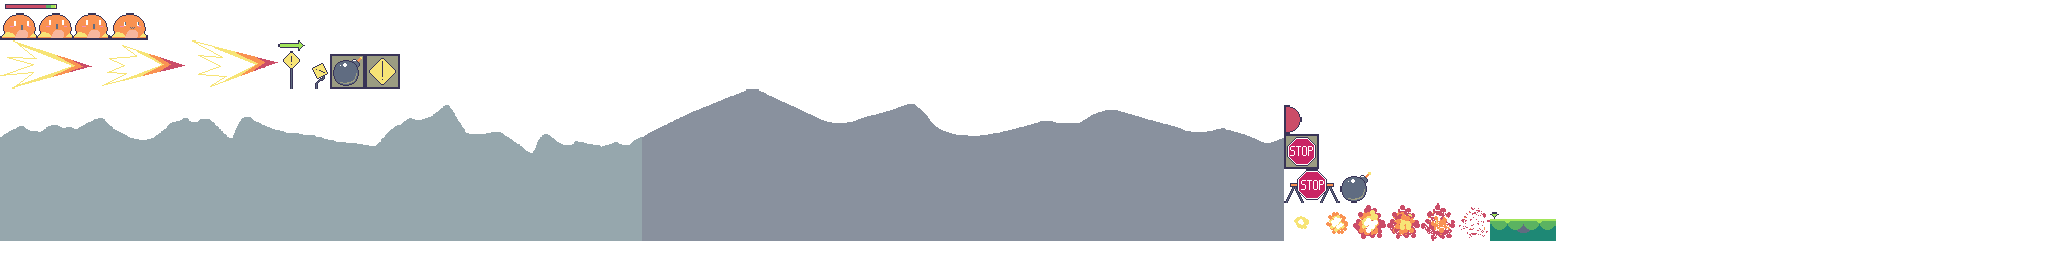
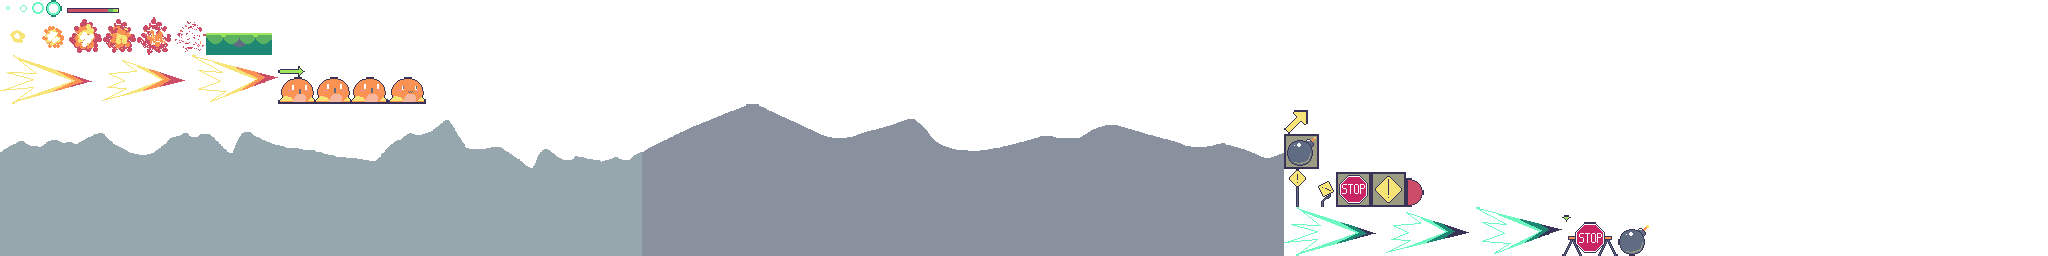
balancing and blue

Changed region(s): [[0.0, 0.3438, 0.8125, 1.0], [0.0, 0.0, 0.2188, 0.4062], [0.625, 0.4062, 0.6562, 0.5]]

diff --git a/core/src/main/java/com/distraction/oss325/screens/PlayScreen.java b/core/src/main/java/com/distraction/oss325/screens/PlayScreen.java
@@ -40,7 +40,8 @@ public class PlayScreen extends Screen {
     private final TextureRegion pixel;
 
     private final Player player;
-    private final TextureRegion[] explosionSprites;
+    private final TextureRegion[] explosion;
+    private final TextureRegion[] blueExplosion;
 
     private final FontEntity distanceFont;
     private final FontEntity speedFont;
@@ -60,12 +61,14 @@ public class PlayScreen extends Screen {
 
     private final List<Particle> particles;
 
-    private boolean booster = true;
+    private TextureRegion booster;
+    private int boosterCount = 3;
 
     public PlayScreen(Context context) {
         super(context);
         pixel = context.getPixel();
-        explosionSprites = context.getImage("explosion").split(34, 36)[0];
+        explosion = context.getImage("explosion").split(34, 36)[0];
+        blueExplosion = context.getImage("blueexplosion").split(15, 15)[0];
 
         player = new Player(context);
         interactables = new ArrayList<>();
@@ -109,14 +112,15 @@ public class PlayScreen extends Screen {
         );
         speedFont.setColor(Constants.BLACK);
 
+        booster = context.getImage("boost");
         boosterFont = new FontEntity(
             font,
-            "Booster Available! [SPACE]",
-            Constants.WIDTH / 2f,
-            8,
-            FontEntity.Alignment.CENTER
+            "[SPACE]",
+            Constants.WIDTH - 16,
+            Constants.HEIGHT - 50,
+            FontEntity.Alignment.RIGHT
         );
-        boosterFont.setColor(Constants.WHITE);
+        boosterFont.setColor(Constants.BLACK);
 
     }
 
@@ -160,7 +164,7 @@ public class PlayScreen extends Screen {
     /**
      * Get the next item in the list. Rules:
      * - Every INTERVAL is a new item.
-     * - Every 10 items is a STOP.
+     * - Every 13 items is a STOP.
      * - Every 3 items is a SLOW.
      * - Everything else is a BOMB.
      */
@@ -173,7 +177,7 @@ public class PlayScreen extends Screen {
         while (cx <= x) {
             List<Interactable> temp = new ArrayList<>();
             int index = cx / INTERVAL;
-            if (index % 10 == 0) {
+            if (index % 13 == 0) {
                 temp.add(new Stop(context));
             } else if (index % 3 == 0) {
                 temp.add(new SlowSign(context));
@@ -212,8 +216,8 @@ public class PlayScreen extends Screen {
 
         if (Gdx.input.isKeyJustPressed(Input.Keys.SPACE)) {
             if (state == State.GO && !player.stopped) {
-                if (booster) {
-                    booster = false;
+                if (boosterCount > 0) {
+                    boosterCount--;
                     state = State.RAD;
                 }
             } else if (state == State.RAD) {
@@ -245,7 +249,10 @@ public class PlayScreen extends Screen {
             player.update(dt);
         }
         int newBoosterInterval = getDistance() / BOOSTER_INTERVAL;
-        if (currentBoosterInterval != newBoosterInterval) booster = true;
+        if (currentBoosterInterval != newBoosterInterval) {
+            boosterCount++;
+            if (boosterCount > 3) boosterCount = 3;
+        }
 
         // update camera
         cam.position.x = player.x;
@@ -327,14 +334,29 @@ public class PlayScreen extends Screen {
         sb.setProjectionMatrix(cam.combined);
         sb.setColor(1, 1, 1, 1);
         player.render(sb);
-        if (state == State.GO && player.dx > 1500) particles.add(
-            new Particle(
-                explosionSprites,
-                2 / 60f,
-                MathUtils.random(-10, 10) + player.x,
-                MathUtils.random(-10, 10) + player.y
-            )
-        );
+        if (state == State.GO) {
+            if (player.dx > 3000) {
+                for (int i = 0; i < 4; i++) {
+                    particles.add(
+                        new Particle(
+                            blueExplosion,
+                            2.5f / 60f,
+                            MathUtils.random(-30, 30) + player.x,
+                            MathUtils.random(-30, 30) + player.y
+                        )
+                    );
+                }
+            } else if (player.dx > 1500) {
+                particles.add(
+                    new Particle(
+                        explosion,
+                        3 / 60f,
+                        MathUtils.random(-10, 10) + player.x,
+                        MathUtils.random(-10, 10) + player.y
+                    )
+                );
+            }
+        }
 
         sb.setColor(1, 1, 1, 1);
         for (Particle p : particles) p.render(sb);
@@ -349,7 +371,10 @@ public class PlayScreen extends Screen {
         sb.setProjectionMatrix(uiCam.combined);
         distanceFont.render(sb);
         speedFont.render(sb);
-        if (booster && player.launched) boosterFont.render(sb);
+        if (boosterCount > 0 && player.launched) boosterFont.render(sb);
+        for (int i = 0; i < boosterCount; i++) {
+            sb.draw(booster, Constants.WIDTH - 36 - i * 25, Constants.HEIGHT - 36);
+        }
 
         sb.setColor(1, 1, 1, 1);
         sb.setProjectionMatrix(uiCam.combined);

diff --git a/core/src/main/java/com/distraction/oss325/entity/Player.java b/core/src/main/java/com/distraction/oss325/entity/Player.java
@@ -14,6 +14,7 @@ public class Player extends Entity {
     private final TextureRegion poko;
     private final Animation pokoShock;
     private final Animation dbz;
+    private final Animation bluedbz;
 
     public boolean launched;
     public boolean stopped;
@@ -31,6 +32,7 @@ public class Player extends Entity {
 
         pokoShock = new Animation(context.getImage("pokoshock").split(36, 25)[0], 2/60f);
         dbz = new Animation(context.getImage("dbz").split(92, 47)[0], 2/60f);
+        bluedbz = new Animation(context.getImage("bluedbz").split(92, 47)[0], 2/60f);
     }
 
     public void setBounds(float ceil, float floor) {
@@ -55,14 +57,15 @@ public class Player extends Entity {
     }
 
     /**
-     * Limits the player's velocity to 3000.
+     * Limits the player's velocity.
      */
     public void limit() {
-        float s = (float) Math.sqrt(dx * dx + dy * dy);
-        float rad = MathUtils.atan2(dy, dx);
-        if (s > 2000) {
-            dx = MathUtils.cos(rad) * 2100;
-            dy = MathUtils.sin(rad) * 2100;
+//        float s = (float) Math.sqrt(dx * dx + dy * dy);
+//        float rad = MathUtils.atan2(dy, dx);
+        if (dx > 4200) {
+            dx = 4200;
+//            dx = MathUtils.cos(rad) * 4100;
+//            dy = MathUtils.sin(rad) * 4100;
         }
     }
 
@@ -120,6 +123,7 @@ public class Player extends Entity {
         }
         pokoShock.update(dt);
         dbz.update(dt);
+        bluedbz.update(dt);
         drad = MathUtils.atan2(dy, dx);
     }
 
@@ -129,6 +133,7 @@ public class Player extends Entity {
         else Utils.drawRotated(sb, pokoShock.getImage(), x, y, rad);
 
         sb.setColor(1, 1, 1, 0.7f);
-        if (dx > 1500) Utils.drawRotated(sb, dbz.getImage(), x, y, drad);
+        if (dx > 3000) Utils.drawRotated(sb, bluedbz.getImage(), x, y, drad);
+        else if (dx > 1500) Utils.drawRotated(sb, dbz.getImage(), x, y, drad);
     }
 }

diff --git a/core/src/main/java/com/distraction/oss325/Animation.java b/core/src/main/java/com/distraction/oss325/Animation.java
@@ -9,15 +9,15 @@ public class Animation {
 
     private float timer;
     private int frame;
-    private int playCount;
+    private int finishCount = 0;
 
     public Animation(TextureRegion[] images, float interval) {
         this.images = images;
         this.interval = interval;
     }
 
-    public int getPlayCount() {
-        return playCount;
+    public int getFinishCount() {
+        return finishCount;
     }
 
     public void update(float dt) {
@@ -26,9 +26,11 @@ public class Animation {
         if (timer >= interval) {
             timer -= interval;
             frame++;
+            if (frame == images.length - 1) {
+                finishCount++;
+            }
             if (frame >= images.length) {
                 frame = 0;
-                playCount++;
             }
         }
     }

diff --git a/core/src/main/java/com/distraction/oss325/Constants.java b/core/src/main/java/com/distraction/oss325/Constants.java
@@ -12,7 +12,7 @@ public class Constants {
     public static final int SWIDTH = WIDTH * SCALE;
     public static final int SHEIGHT = HEIGHT * SCALE;
 
-    public static final boolean FULLSCREEN = true;
+    public static final boolean FULLSCREEN = false;
 
     // Island Joy 16
     // https://lospec.com/palette-list/island-joy-16

diff --git a/core/src/main/java/com/distraction/oss325/entity/Bomb.java b/core/src/main/java/com/distraction/oss325/entity/Bomb.java
@@ -34,7 +34,7 @@ public class Bomb extends Interactable {
             particles.add(
                 new Particle(
                     context.getImage("explosion").split(34, 36)[0],
-                    2 / 60f,
+                    5 / 60f,
                     ex,
                     ey
                 )

diff --git a/core/src/main/java/com/distraction/oss325/entity/Particle.java b/core/src/main/java/com/distraction/oss325/entity/Particle.java
@@ -20,7 +20,9 @@ public class Particle extends Entity {
     @Override
     public void update(float dt) {
         animation.update(dt);
-        if (animation.getPlayCount() > 1) remove = true;
+        if (animation.getFinishCount() > 0) {
+            remove = true;
+        }
     }
 
     @Override
